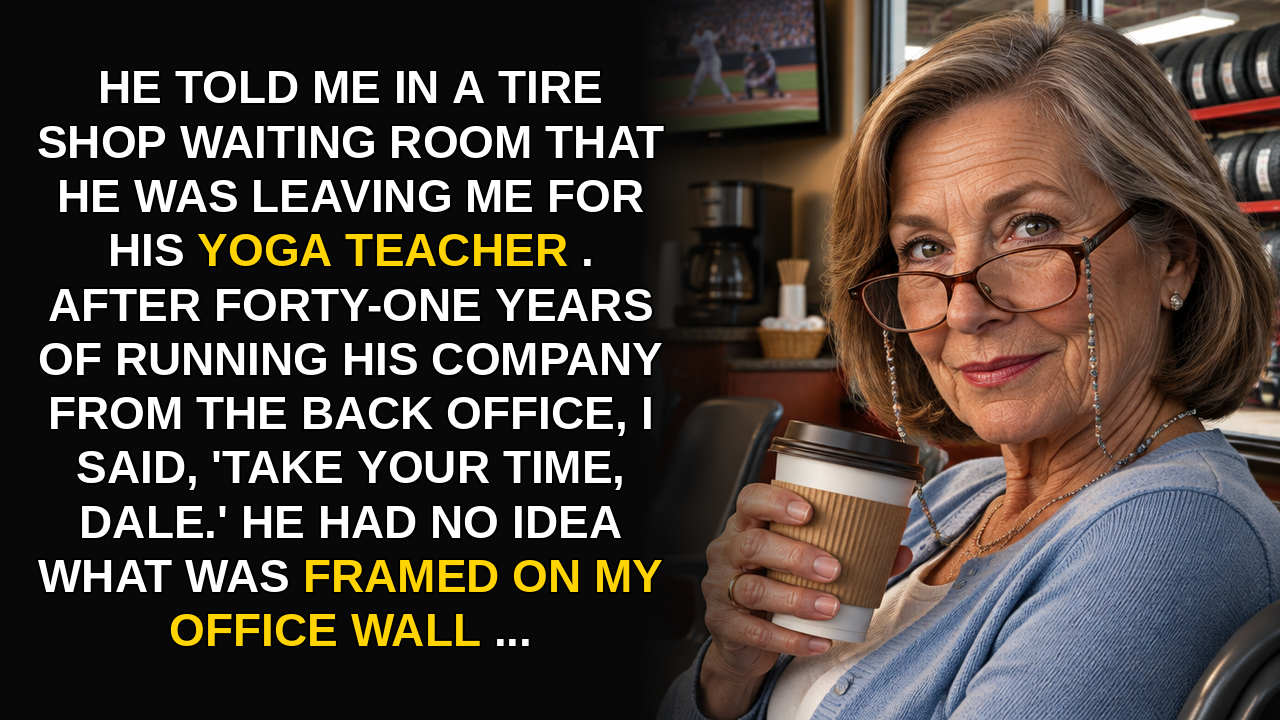
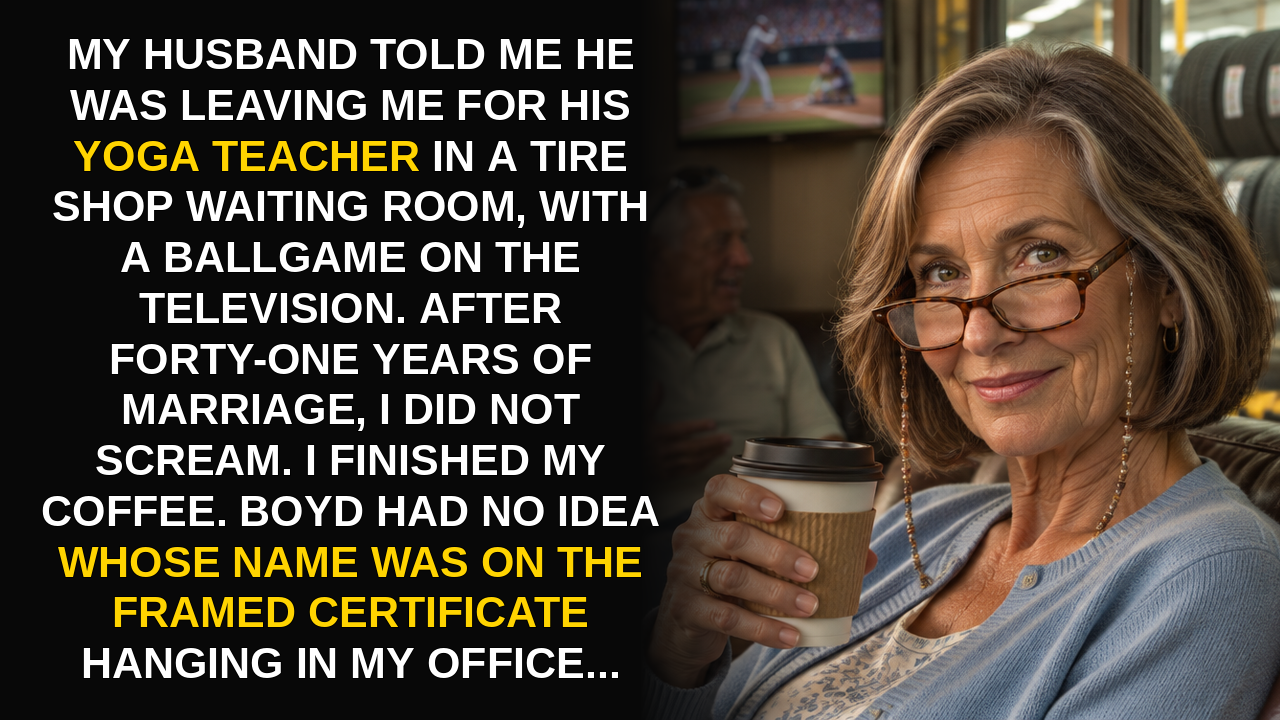
E009: editor fixes applied, covers A/B redone for renamed characters
Claude-Session: https://claude.ai/code/session_01S1DHjVaCYABTMSLcvCpbQq

diff --git a/episodes/E009-yoga-teacher-license/bible.md b/episodes/E009-yoga-teacher-license/bible.md
@@ -1,43 +1,55 @@
 # E009 — Story bible
-Narrator: Marilyn "Mimi" Tolliver, 65, first person, past tense, telling it the following spring from her own back porch. Sharp, dry, Gulf Coast Southern humor (never cruel, never whiny); the kind of woman who answers the phone on the second ring, keeps every receipt, and says "bless his heart" with a straight face. Form A (classic payback), humor, but built on *competence*, not on a hidden deed. No lawyer reveal at the end, no party reading. The turn happens in a tire-shop waiting room (open), a licensing-office counter (plan), a conference room (payback) and customers' porches (new life).
+Narrator: Marilyn "Mimi" Lanier, 65, first person, past tense, telling it the following spring from her own back porch. Sharp, dry, Gulf Coast Southern humor (never cruel, never whiny); the kind of woman who answers the phone on the second ring, keeps every receipt, and says "bless his heart" with a straight face. Form A (classic payback), humor, but built on *competence*, not on a hidden deed. No lawyer reveal at the end, no party reading. The turn happens in a tire-shop waiting room (open), a licensing-office counter (plan), a conference room (payback) and customers' porches (new life).
 
 ## Characters (8 named, different initials)
-**Marilyn "Mimi" Tolliver (née Gaudet)** — narrator, 65. Born in Bayou La Batre, Alabama; office manager of Tolliver Blue Water Pools for thirty-seven years (since 1988), bookkeeper, dispatcher, complaint desk, the person every customer calls. At fifty-two (spring 2013) she passed the state exam and became the company's licensed *qualifying agent* (an inspector had found the old license holder, Dale's retired partner Gene, no longer valid, and Dale could not or would not sit the test: "I don't test well, Mimi, you do it."). Small, neat, reading glasses on a beaded chain, a Buick LeSabre named "Gladys," a box fan in the back office, a coffee mug that says World's Okayest Bookkeeper (gift from the crew). Married forty-one years; one grown daughter in Denver (unnamed; appears only in one short phone call; calls her "Mama"). Salary: thirty-eight thousand a year ("Dale called it 'family compensation'"). Own savings: a credit-union account she funded herself, forty-four thousand dollars, and her own small IRA; the house (paid off, 1996) is in both names.
-**Dale Tolliver** — husband, 68. Founder (1988) of Tolliver Blue Water Pools in Dauphin Landing, Alabama (fictional town on Mobile Bay). Big laugh, white teeth, tan, sunglasses on his head, golf shirts with the company logo. A genuine salesman: customers love him; he has never read a permit. Vain, sure "the girl in the back" is furniture; says "Mimi, honey, it's just paperwork." Not violent; his sin is contempt and carelessness. Has never taken the licensing exam. Drives a white Ram truck with his face on the door.
-**Skye Calloway** — yoga teacher, 39, runs Still Water Studio in a converted bank building ("the vault is the quiet room"). Shallow but not evil; says "I hold space for that." Told Dale he "has so much unlived life." Realizes, over the weeks, what the company actually is and that Dale is not a rich founder but a man with a cash-flow problem. Leaves him in January.
-**Tripp Haverty** — 34, "growth consultant" from Gulf Aqua Partners, a Houston-based group that buys and rolls up pool companies. Dale's partner-in-waiting: they are buying sixty percent of Tolliver Blue Water for one point four million dollars, closing Friday, October third, after "paperwork" on Tuesday, September thirtieth (the license renewal date). Sleek, polite, reads spreadsheets not people; he does his homework on the numbers but never asks who the qualifier is — he assumes it is Dale. Not a cartoon: when he sees the truth, he leaves politely.
-**Ray Beaumont** — 59, crew chief, with the company since 1991, big, quiet, soft-voiced, fixes pumps like a surgeon, calls Mimi "Miss Mimi." Has kept every customer's pump history in his head. Wears a cap from the Mobile BayBears. Loyal to the work, not to Dale.
-**Odessa Whitfield** — 81, retired school principal, first customer of Mimi's era (pool built 1989), lives on Magnolia Point Road in a pink brick house with a pool she swims in every morning at six ("for my hips"). Sharp as a tack; calls Dale "that boy." Becomes the first customer of the new company.
+**Marilyn "Mimi" Lanier (née Gaudet)** — narrator, 65. Born in Bayou La Batre, Alabama; office manager of Lanier Blue Water Pools for thirty-seven years (since 1988), bookkeeper, dispatcher, complaint desk, the person every customer calls. At fifty-two (spring 2013) she passed the state exam and became the company's licensed *qualifying agent* (an inspector had found the old license holder, Boyd's retired partner Gene, no longer valid, and Boyd could not or would not sit the test: "I don't test well, Mimi, you do it."). Small, neat, reading glasses on a beaded chain, a Buick LeSabre named "Gladys," a box fan in the back office, a coffee mug that says World's Okay Bookkeeper (gift from the crew). Married forty-one years; one grown daughter in Denver (unnamed; appears only in one short phone call; calls her "Mama"). Salary: thirty-eight thousand a year ("Boyd called it 'family compensation'"). Own savings: a credit-union account she funded herself, forty-four thousand dollars, and her own small IRA; the house (paid off, 1996) is in both names.
+**Boyd Lanier** — husband, 68. Founder (1988) of Lanier Blue Water Pools in Dauphin Landing, Alabama (fictional town on Mobile Bay). Big laugh, white teeth, tan, sunglasses on his head, golf shirts with the company logo. A genuine salesman: customers love him; he has never read a permit. Vain, sure "the girl in the back" is furniture; says "Mimi, honey, it's just paperwork." Not violent; his sin is contempt and carelessness. Has never taken the licensing exam. Drives a white pickup truck with his face on the door.
+**Skye Calloway** — yoga teacher, 39, runs Still Water Studio in a converted bank building ("the vault is the quiet room"). Shallow but not evil; says "I hold space for that." Told Boyd he "has so much unlived life." Realizes, over the weeks, what the company actually is and that Boyd is not a rich founder but a man with a cash-flow problem. Leaves him in January.
+**Tripp Haverty** — 34, "growth consultant" from Gulf Aqua Partners, a Houston-based group that buys and rolls up pool companies. Boyd's partner-in-waiting: they are buying sixty percent of Lanier Blue Water for one point four million dollars, closing Friday, October third, after "paperwork" on Tuesday, September thirtieth (the license renewal date). Sleek, polite, reads spreadsheets not people; he does his homework on the numbers but never asks who the qualifier is — he assumes it is Boyd. Not a cartoon: when he sees the truth, he leaves politely.
+**Otis Beaumont** — 59, crew chief, with the company since 1991, big, quiet, soft-voiced, fixes pumps like a surgeon, calls Mimi "Miss Mimi." Has kept every customer's pump history in his head. Wears a cap from the Cypress Point Mudhens. Loyal to the work, not to Boyd.
+**Nettie Rhodes** — 81, retired school principal, first customer of Mimi's era (pool built 1989), lives on Magnolia Point Road in a pink brick house with a pool she swims in every morning at six ("for my hips"). Sharp as a tack; calls Boyd "that boy." Becomes the first customer of the new company.
 **Wanda Pickett** — 55, clerk at the State Licensing Board for Pool and Spa Contractors, Mobile regional office (fictional agency), second floor of a state office building. Plain-spoken, has a stack of laminated rules, a candy dish and a "no" that she delivers kindly. Explains the rules in general terms.
-**Priya Nair** — 41, family-law attorney with a small office above a bakery in Dauphin Landing. Calm, practical; advises Mimi only; no end-of-story document reveal. She asks the one question: "Did you ever sign a non-compete?"
+**Corinne Doucet** — 41, family-law attorney with a small office above a bakery in Dauphin Landing. Calm, practical; advises Mimi only; no end-of-story document reveal. She asks the one question: "Did you ever sign a non-compete?"
 
 ## Places, objects, money (all fictional, general-terms legal)
-- Tolliver Blue Water Pools: low cinderblock office with a blue awning and a fiberglass dolphin on the roof, Highway Ninety-Eight frontage, Dauphin Landing, Alabama. Three trucks, eleven employees, about three million one hundred thousand dollars in yearly revenue. Back office: Mimi's desk, a box fan, the framed license on the wall (a state certificate naming the qualifying agent: **Marilyn G. Tolliver**, number in the file; Dale walked past it twenty thousand times and never read it). Renewal due every September thirtieth, signed by the qualifying agent.
+- Lanier Blue Water Pools: low cinderblock office with a blue awning and a fiberglass dolphin on the roof, Highway Ninety-Eight frontage, Dauphin Landing, Alabama. Three trucks, eleven employees, about three million one hundred thousand dollars in yearly revenue. Back office: Mimi's desk, a box fan, the framed license on the wall (a state certificate naming the qualifying agent: **Marilyn G. Lanier**, number in the file; Boyd walked past it twenty thousand times and never read it). Renewal due every September thirtieth, signed by the qualifying agent.
 - The rule (in general terms, from Wanda): a pool contractor company must have a qualifying agent on file, a licensed person who passed the exam and answers for the company's work. If the qualifier resigns in writing, the company can keep finishing existing jobs for a grace period of sixty days, but cannot sign new contracts or pull new permits until it names a new qualifier who passes the exam; the exam is given only a few times a year (next sitting: Tuesday, November eighteenth, in Montgomery). A qualifier may serve only one company at a time. A resigning qualifier may qualify a new company of her own right after. There is no non-compete in Mimi's file or hers.
-- The buyer's lender requires the license to be in good standing with a named qualifier on closing day. Tripp assumes Dale holds it.
-- Dale's plan: sell sixty percent to Gulf Aqua for one point four million dollars, take Skye on a "reset" trip, keep a title ("Founder and Chairman"), and make Mimi sign the annual renewal "like always" on Tuesday, September thirtieth, in front of the buyers, so no one notices she holds it. He tells Tripp on a phone call Mimi overhears: "She's a clerk, Tripp. She'll sign anything I put in front of her. Forty-one years, she's never once read the fine print."
-- Dale's three waves: (1) Monday after the tire shop: Tripp arrives, moves into Mimi's office, and Mimi is "reassigned" to the supply room and told to hand over the books; (2) a settlement offer: sixty thousand dollars and the Buick, the house to be sold; plus he takes her off the company health insurance "for the transition"; (3) at the Friday crew meeting he announces "discrepancies in the books" to the crew, implying Mimi has been skimming (a petty-cash tin was short seventy-one dollars in 2019; he never asked about it; she had the receipt: Ray's boots).
-- Timeline: late August (Thursday, August twenty-eighth: the tire shop, Greer's Tire and Brake on Highway Ninety-Eight; ballgame on the waiting-room TV; a free-coffee machine; Dale needs front tires on the Ram). Monday, September first (Labor Day: Tripp comes anyway; note: Labor Day is a holiday so they work; make it Tuesday, September second); first week of September: wave one. Second week: the settlement offer, Priya. Third week: crew-meeting accusation (Friday, September nineteenth); the overheard call (Saturday, September twentieth, at the office). Monday, September twenty-second: Mimi drives to Wanda Pickett in Mobile. Tuesday, September thirtieth, nine in the morning: the conference room at the company, with Tripp, two men from Gulf Aqua (Mister Lund, Mister Okafor — not named characters; mention at most as "the two gentlemen from Houston"), Dale, Ray at the door, and the renewal form. Friday, October third: the closing that never happens. A tropical storm ("Tropical Storm Odalys", fictional) brushes the coast Sunday, September twenty-eighth, with wind and rain; pools overflow; the old customers call Mimi's cell, not the office. She and Ray work two nights.
-- Aftermath: Gulf Aqua walks away Tuesday afternoon (the deal "paused pending license verification"; officially dead Thursday). Dale files an emergency application with the board; Wanda tells him the rules (kindly). He is allowed to finish existing jobs, cannot sign new ones. His exam is November eighteenth; he fails by four points (he reads the questions aloud, calls Mimi's name once in the parking lot). Nine of the eleven employees leave by November; eight follow Ray and Mimi. Skye leaves Dale in January ("the energy here is heavy") after learning there is no one to pay for the studio's new vault door. Dale sells the trucks and the customer list to a competitor in December for three hundred and ten thousand dollars (not a million point four), pays off the line of credit, and ends up with a small apartment. The settlement: Mimi keeps the house and her own accounts; they split the rest by plain arithmetic; she asks for nothing spectacular. She does not gloat. She does not rescue him either: when he comes to her porch in January and asks her to be the qualifier again "for old times' sake, forty percent," she says no, once, kindly.
-- New company: Gaudet Blue Water Service (Mimi's maiden name), a pelican (not a dolphin) on the truck door at Ray's insistence; first customer Odessa; first week sixty-one weekly service stops; by spring one hundred and four customers, five trucks' worth of work in two; Ray is partner at twenty percent; Mimi is again at a desk, with a box fan, but the sign says her name.
-- Final scene: April, her back porch, iced tea, Ray's pelican truck pulling in; a short plain line about being read at last ("somebody finally read the fine print — and it was me"? use own words); question to the listener: would you have signed or told him? and where they are listening from.
+- The buyer's lender requires the license to be in good standing with a named qualifier on closing day. Tripp assumes Boyd holds it.
+- Boyd's plan: sell sixty percent to Gulf Aqua for one point four million dollars, take Skye on a "reset" trip, keep a title ("Founder and Chairman"), and make Mimi sign the annual renewal "like always" on Tuesday, September thirtieth, in front of the buyers, so no one notices she holds it. He tells Tripp on a phone call Mimi overhears: "She's a clerk, Tripp. She'll sign anything I put in front of her. Forty-one years, she's never once read the fine print."
+- Boyd's three waves: (1) Monday after the tire shop: Tripp arrives, moves into Mimi's office, and Mimi is "reassigned" to the supply room and told to hand over the books; (2) a settlement offer: sixty thousand dollars and the Buick, the house to be sold; plus he takes her off the company health insurance "for the transition"; (3) at the Friday crew meeting he announces "discrepancies in the books" to the crew, implying Mimi has been skimming (a petty-cash tin was short seventy-one dollars in 2019; he never asked about it; she had the receipt: Otis's boots).
+- Timeline: late August (Thursday, August twenty-eighth: the tire shop, Greer's Tire and Brake on Highway Ninety-Eight; ballgame on the waiting-room TV; a free-coffee machine; Boyd needs front tires on the Ram). Monday, September first (Labor Day: Tripp comes anyway; note: Labor Day is a holiday so they work; make it Tuesday, September second); first week of September: wave one. Second week: the settlement offer, Corinne. Third week: crew-meeting accusation (Friday, September nineteenth); the overheard call (Saturday, September twentieth, at the office). Monday, September twenty-second: Mimi drives to Wanda Pickett in Mobile. Tuesday, September thirtieth, nine in the morning: the conference room at the company, with Tripp, two men from Gulf Aqua (Mister Lund, Mister Pell — not named characters; mention at most as "the two gentlemen from Houston"), Boyd, Otis at the door, and the renewal form. Friday, October third: the closing that never happens. A tropical storm ("Tropical Storm Odalys", fictional) brushes the coast Sunday, September twenty-eighth, with wind and rain; pools overflow; the old customers call Mimi's cell, not the office. She and Otis work two nights.
+- Aftermath: Gulf Aqua walks away Tuesday afternoon (the deal "paused pending license verification"; officially dead Thursday). Boyd files an emergency application with the board; Wanda tells him the rules (kindly). He is allowed to finish existing jobs, cannot sign new ones. His exam is November eighteenth; he fails by four points (he reads the questions aloud, calls Mimi's name once in the parking lot). Nine of the eleven employees leave by November; eight follow Otis and Mimi. Skye leaves Boyd in January ("the energy here is heavy") after learning there is no one to pay for the studio's new vault door. Boyd sells the trucks and the customer list to a competitor in December for three hundred and ten thousand dollars (not a million point four), pays off the line of credit, and ends up with a small apartment. The settlement: Mimi keeps the house and her own accounts; they split the rest by plain arithmetic; she asks for nothing spectacular. She does not gloat. She does not rescue him either: when he comes to her porch in January and asks her to be the qualifier again "for old times' sake, forty percent," she says no, once, kindly.
+- New company: Gaudet Blue Water Service (Mimi's maiden name), a pelican (not a dolphin) on the truck door at Otis's insistence; first customer Nettie; first week sixty-one weekly service stops; by spring one hundred and four customers, five trucks' worth of work in two; Otis is partner at twenty percent; Mimi is again at a desk, with a box fan, but the sign says her name.
+- Final scene: April, her back porch, iced tea, Otis's pelican truck pulling in; a short plain line about being read at last ("somebody finally read the fine print — and it was me"? use own words); question to the listener: would you have signed or told him? and where they are listening from.
 
 ## Motifs
-- "Fine print": Dale's line, her line.
+- "Fine print": Boyd's line, her line.
 - Box fan and the framed license on the office wall; at the end the frame hangs on her porch wall, new certificate beside it.
-- Odessa's six a.m. swims and her "that boy" for Dale.
-- Ray's "Yes ma'am, Miss Mimi."
+- Nettie's six a.m. swims and her "that boy" for Boyd.
+- Otis's "Yes ma'am, Miss Mimi."
 - Mimi never shouts; her weapons are punctuality, receipts, a very polite voice, and "Bless his heart."
 - Avoid names/towns: Maple Grove, Larkspur, Fieldstone. Business, agency and town names are fictional.
 
 ## Added while writing the script (details the chapters now rely on)
-- Gene Pruitt: Dale's retired partner, old license holder, retired to a fishing camp on the Tensaw River (ch2; unnamed in the original bible).
-- Mimi's Medicare supplement and prescription coverage rode on the company health plan; Dale's cut-off letter ends it with the month (ch3).
-- Places: Dockside Diner (the napkin offer, Thursday, September eleventh), Bay Street Market (grocery where Skye approaches Mimi), the bakery under Priya's office is on Bay Street, Pelican Bluff subdivision (Dale in the rented golf cart), Mobile BayBears cap stays Ray's.
-- Dale's offer: written on a napkin first, then a typed letter from his lawyer on Monday (ch3).
-- Ray is six feet four inches; kept the 2019 receipt (seventy-one dollars, steel-toe boots, signed by Dale) in his wallet (ch4).
+- Gene Arceneaux: Boyd's retired partner, old license holder, retired to a fishing camp on the Tensaw River (ch2; unnamed in the original bible).
+- Mimi's Medicare supplement and prescription coverage rode on the company health plan; Boyd's cut-off letter ends it with the month (ch3).
+- Places: Dockside Diner (the napkin offer, Thursday, September eleventh), Bay Street Market (grocery where Skye approaches Mimi), the bakery under Corinne's office is on Bay Street, Pelican Bluff subdivision (Boyd in the rented golf cart), Cypress Point Mudhens cap stays Otis's.
+- Boyd's offer: written on a napkin first, then a typed letter from his lawyer on Monday (ch3).
+- Otis is six feet four inches; kept the 2019 receipt (seventy-one dollars, steel-toe boots, signed by Boyd) in his wallet (ch4).
 - Wanda Pickett has worked the counter nineteen years; she also helps proctor the Montgomery exam sitting and reports the November eighteenth result to Mimi (ch8).
-- Resignation mechanics in ch7: signed at nine-oh-four; Mimi photographs the page and texts it to Priya, who files it through the board's system and replies "Filed." Ray hands Mimi a copy-room box with the mug, the box fan and the framed certificate.
+- Resignation mechanics in ch7: signed at nine-oh-four; Mimi photographs the page and texts it to Corinne, who files it through the board's system and replies "Filed." Otis hands Mimi a copy-room box with the mug, the box fan and the framed certificate.
 - The two Houston gentlemen stay unnamed (older and younger). Tripp sends Mimi a short apology note after the deal is declared dead on Thursday, October second.
-- Employee count after: of eleven on the payroll, nine left by Thanksgiving (Ray first, one to Pensacola, seven more followed Ray and Mimi, eight with Ray). Mimi's daughter flies in December ("bring a hat" callback).
-- Gaudet Blue Water Service office is "a small office by the marina"; Odessa pays the first check in her bathrobe.
+- Employee count after: of eleven on the payroll, nine left by Thanksgiving (Otis first, one to Pensacola, seven more followed Otis and Mimi, eight with Otis). Mimi's daughter flies in December ("bring a hat" callback).
+- Gaudet Blue Water Service office is "a small office by the marina"; Nettie pays the first check in her bathrobe.
+
+## Revisions after editor review (supersede anything above that conflicts)
+- Names changed to avoid repeats from E001-E008: Dale -> Boyd Lanier; Tolliver -> Lanier (company: Lanier Blue Water Pools; Mimi is Marilyn G. Lanier); Ray -> Otis Beaumont; Odessa Whitfield -> Nettie Rhodes; Priya Nair -> Corinne Doucet; Gene Pruitt -> Gene Arceneaux; Mister Okafor (unnamed in text) -> Mister Pell. Hollis, Tolliver, Okafor are used in earlier episodes and must not return.
+- Fictional minor-league team: Cypress Point Mudhens (Otis's cap). Mug: World's Okay Bookkeeper. Boyd drives a white pickup (no brand). Candy in the exam story: chocolate peanuts.
+- Mimi always knew the license was in her name (she sat the exam in 2013 and hung the certificate herself). What she learns in ch03 is that a license belongs to the person and that her leaving paralyzes the company. In ch03 Corinne also texts "Do not resign yet. Ask the board who may resign, and effective when."
+- Boyd's napkin: sixty thousand dollars and the Buick; the house is to be sold with the money going to Boyd; nothing else to be divided.
+- Health coverage: Corinne writes to the plan; Mimi never misses a prescription (resolved in ch08).
+- Boyd wanted Mimi frightened and grateful so she would sign without reading (ch04). Tripp did ask Boyd and took his word; the lender checklist said only "active" (ch07).
+- Why September thirtieth at nine-oh-four with the buyers present (ch07): earlier, Boyd could lie to Houston or move the closing; later, the buyers learn the truth after their money has gone.
+- Boyd in ch07 threatens his attorney; Mimi: nobody can make a woman keep a job, not even a husband. Mimi writes the time at the top "for the board".
+- ch08: the lender pulled its commitment (deal dead October second); Boyd's January request is a job as salesman, "the face of Gaudet Blue Water"; Mimi says no. Wanda never discusses cases with Mimi: Boyd's filing and the exam story reach Mimi by customers' relatives (a proctor married to a customer). Of the ten employees besides Mimi, nine left by Thanksgiving. Two trucks do the work three used to. Customer list sold for a list of names whose owners had already chosen. Final question: would you have told him a week early, or waited for Tuesday?
+- Storm timeline (ch06): storm Sunday the twenty-eighth; first night of work Sunday, Nettie at three Monday morning; second night of work Monday, tailgate talk about two on Tuesday morning in thin drizzle.

diff --git a/episodes/E009-yoga-teacher-license/outline.md b/episodes/E009-yoga-teacher-license/outline.md
@@ -2,11 +2,11 @@
 
 Form A, humor, Southern. Skeleton: cold open → who she is → three waves → midpoint (the overheard call) → quiet plan → the conference room → new life.
 
-1. **The Waiting Room** — Cold open at Greer's Tire and Brake, Thursday, August: Dale announces in the plastic chairs, ballgame on the TV, coffee machine, that he is leaving for Skye, his yoga teacher ("I'm not growing here"). Mimi's calm; one-line promise: "By Halloween he would have lost his license to work, his buyer, and most of his crew, and I want to be fair to him: he had it coming for forty years." Then who she is: the office, the dolphin on the roof, the box fan, thirty-seven years, Dale's habit of saying "it's just paperwork." Dale adds: "Tripp's coming Tuesday to look at the books. Just so you're not blindsided." Ends: back at the office alone she looks at the framed certificate on the wall as if for the first time.
-2. **Fine Print** — The 2013 exam story (a testing center in Montgomery, twenty-eight-year-olds, a bag of peanut M&Ms). Tuesday: Tripp takes her office; she is "reassigned" to the supply room; she hands over every book with such helpful honesty that Tripp is startled. Crew reactions; Ray. Humor: the box fan moved to the supply room. Ends: Odessa Whitfield calls the office and, hearing a stranger, says: "Put Mimi on. And tell that boy I'll wait."
-3. **Sixty Thousand and the Buick** — Dale's settlement offer on a restaurant napkin-turned-letter (via his lawyer), health insurance dropped; Priya Nair's office above the bakery; Priya asks "What do you hold, on paper, that can walk out the door with you?" and "Did you sign a non-compete?" (no); Mimi realizes what the certificate means. Skye meets her at the grocery store, offers "space." Ends: Mimi goes home, takes the framed certificate off the office wall in her mind, and decides not to do anything yet: "I decided to be the most helpful woman in Alabama."
-4. **Discrepancies** — Friday crew meeting: Dale hints the books show "discrepancies"; the seventy-one-dollar petty-cash tin; Ray stands up with the receipt (his boots). Dale laughs it off. Saturday at the office alone, Mimi overhears Dale's phone call to Tripp: "She's a clerk... she'll sign anything... forty-one years, she's never read the fine print... Tuesday the thirtieth, renewal, she signs, Friday we close." Midpoint decision, calm. Ends: she writes one sentence on a sticky note and puts it in her purse: "Tuesday, nine a.m."
-5. **Wanda Pickett Has a Laminated Card** — Monday: Mobile, state office building; Wanda explains the rules in general terms with kindness and a candy dish: resignation in writing, sixty-day grace, no new permits, the November exam, one company at a time. Mimi's quiet plan: finish and protect the fourteen open jobs, tell Ray privately, line up her own paperwork (Priya drafts her resignation letter; effective at the moment she signs); she will not strand a single customer. Humor: Wanda: "Honey, I have seen men cry at that counter. Never the person who read the manual." Ends: Wanda hands her the form; "Be sure of your date."
-6. **Tropical Storm Odalys** — The week before: the storm brushes the coast; pools overflow; customers call Mimi's cell, not the office; she and Ray work two nights; Odessa on her porch in a rain poncho says she'll follow Mimi anywhere; Skye shows at the office in a white linen outfit, bewildered by the phones; Tripp is overwhelmed by calls; Dale in a golf cart. Mimi is the only one who knows where the valves are. Ray: "Miss Mimi, whatever you're fixing to do, I'm in." Ends: Monday night, Dale leaves a voicemail: "Tuesday, nine sharp, bring a pen, honey."
-7. **Bring a Pen** — Tuesday, nine a.m., the conference room: two gentlemen from Houston, Tripp, Dale in his best golf shirt, Ray at the door. Dale slides the renewal form over: "Just sign, Mimi, like always." She says she'll be delighted to, politely, and asks the gentlemen if they'd like to know what she's signing. A calm explanation, no raised voice; Tripp turns pale; the Houston men ask who the qualifier is; Dale says "technicality"; she signs a different paper: the resignation, effective at nine-oh-four. Dale: "You're doing this to hurt me." Mimi: "No, Dale. I'm leaving you exactly what you always said I was: a clerk. Clerks can't pull permits." Houston leaves. Ray hands Mimi the cardboard box (mug, the box fan). Ends: in the parking lot Dale says "Fine, I'll take the test," and Mimi says: "It's November eighteenth. Bring a pen."
-8. **Gaudet Blue Water** — What happened next, on ordinary mornings: Wanda's kind "no" to Dale; the deal officially dead; he fails the exam by four points; crews leave; Skye in January; his customer list sold for three hundred and ten thousand; the house stays hers by plain arithmetic. Dale on her porch in January asks her to requalify for forty percent; she declines once, kindly. The new company: Odessa's pool first, the pelican on the truck, Ray as partner, one hundred and four customers by April, the framed certificate on the porch wall. Last lines + question to the listener (would you have signed, or told him?) and where they are listening from.
+1. **The Waiting Room** — Cold open at Greer's Tire and Brake, Thursday, August: Boyd announces in the plastic chairs, ballgame on the TV, coffee machine, that he is leaving for Skye, his yoga teacher ("I'm not growing here"). Mimi's calm; one-line promise: "By Halloween he would have lost his buyer, his crew and his right to sign a single new contract, and I want to be fair to him: he had it coming for forty-one years." Then who she is: the office, the dolphin on the roof, the box fan, thirty-seven years, Boyd's habit of saying "it's just paperwork." Boyd adds: "Tripp's coming Tuesday to look at the books. Just so you're not blindsided." Ends: back at the office alone she looks at the framed certificate on the wall as if for the first time.
+2. **Fine Print** — The 2013 exam story (a testing center in Montgomery, twenty-eight-year-olds, a bag of peanut M&Ms). Tuesday: Tripp takes her office; she is "reassigned" to the supply room; she hands over every book with such helpful honesty that Tripp is startled. Crew reactions; Otis. Humor: the box fan moved to the supply room. Ends: Nettie Rhodes calls the office and, hearing a stranger, says: "Put Mimi on. And tell that boy I'll wait."
+3. **Sixty Thousand and the Buick** — Boyd's settlement offer on a restaurant napkin-turned-letter (via his lawyer), health insurance dropped; Corinne Doucet's office above the bakery; Corinne asks "What do you hold, on paper, that can walk out the door with you?" and "Did you sign a non-compete?" (no); Mimi realizes what the certificate means. Skye meets her at the grocery store, offers "space." Ends: Mimi goes home, takes the framed certificate off the office wall in her mind, and decides not to do anything yet: "I decided to be the most helpful woman in Alabama."
+4. **Discrepancies** — Friday crew meeting: Boyd hints the books show "discrepancies"; the seventy-one-dollar petty-cash tin; Otis stands up with the receipt (his boots). Boyd laughs it off. Saturday at the office alone, Mimi overhears Boyd's phone call to Tripp: "She's a clerk... she'll sign anything... forty-one years, she's never read the fine print... Tuesday the thirtieth, renewal, she signs, Friday we close." Midpoint decision, calm. Ends: she writes one sentence on a sticky note and puts it in her purse: "Tuesday, nine a.m."
+5. **Wanda Pickett Has a Laminated Card** — Monday: Mobile, state office building; Wanda explains the rules in general terms with kindness and a candy dish: resignation in writing, sixty-day grace, no new permits, the November exam, one company at a time. Mimi's quiet plan: finish and protect the fourteen open jobs, tell Otis privately, line up her own paperwork (Corinne drafts her resignation letter; effective at the moment she signs); she will not strand a single customer. Humor: Wanda: "Honey, I have seen men cry at that counter. Never the person who read the manual." Ends: Wanda hands her the form; "Be sure of your date."
+6. **Tropical Storm Odalys** — The week before: the storm brushes the coast; pools overflow; customers call Mimi's cell, not the office; she and Otis work two nights; Nettie on her porch in a rain poncho says she'll follow Mimi anywhere; Skye shows at the office in a white linen outfit, bewildered by the phones; Tripp is overwhelmed by calls; Boyd in a golf cart. Mimi is the only one who knows where the valves are. Otis: "Miss Mimi, whatever you're fixing to do, I'm in." Ends: Monday night, Boyd leaves a voicemail: "Tuesday, nine sharp, bring a pen, honey."
+7. **Bring a Pen** — Tuesday, nine a.m., the conference room: two gentlemen from Houston, Tripp, Boyd in his best golf shirt, Otis at the door. Boyd slides the renewal form over: "Just sign, Mimi, like always." She says she'll be delighted to, politely, and asks the gentlemen if they'd like to know what she's signing. A calm explanation, no raised voice; Tripp turns pale; the Houston men ask who the qualifier is; Boyd says "technicality"; she signs a different paper: the resignation, effective at nine-oh-four. Boyd: "You're doing this to hurt me." Mimi: "No, Boyd. I'm leaving you exactly what you always said I was: a clerk. Clerks can't pull permits." Houston leaves. Otis hands Mimi the cardboard box (mug, the box fan). Ends: in the parking lot Boyd says "Fine, I'll take the test," and Mimi says: "It's November eighteenth. Bring a pen."
+8. **Gaudet Blue Water** — What happened next, on ordinary mornings: Wanda's kind "no" to Boyd; the deal officially dead; he fails the exam by four points; crews leave; Skye in January; his customer list sold for three hundred and ten thousand; the house stays hers by plain arithmetic. Boyd on her porch in January asks her to requalify for forty percent; she declines once, kindly. The new company: Nettie's pool first, the pelican on the truck, Otis as partner, one hundred and four customers by April, the framed certificate on the porch wall. Last lines + question to the listener (would you have signed, or told him?) and where they are listening from.

diff --git a/episodes/E009-yoga-teacher-license/review.md b/episodes/E009-yoga-teacher-license/review.md
@@ -143,3 +143,27 @@
 **Оценка: 7,5 из 10.** Язык, юмор, дата-арифметика и характеры (Мими, Рэй, Ванда, Одесса, Трип) на уровне; уязвимости — логическая дыра с «не читала собственный сертификат» (она сама сдавала на него), невозможная просьба Дейла в финале, повторы имён из прошлых эпизодов и слабоватая кульминация.
 
 **Одно изменение, которое сильнее всего повысит удержание:** переписать ch01 (концовка) и ch03 (середина) так, чтобы героиня знала про лицензию с самого начала и осознанно, шаг за шагом проверяла, что произойдёт, если она её отдаст (она умная, а не «вдруг прозрела»), и усилить ch07 одним настоящим сопротивлением Дейла. Тогда зритель с первой главы ждёт конкретную дату («Tuesday, nine in the morning»), а в кульминации получает не формальную, а выигранную схватку.
+
+---
+
+## Применённые правки
+
+Все 13 обязательных пунктов выполнены; линт чистый (8 глав по 1163-1205 слов по счёту линтера, всего около 9535 слов, замечаний нет).
+
+1. Лицензия: Мими всегда знала. ch01 финал: «read it the way you read a will»; ch03: на вопрос о держателе лицензии она отвечает «Me» и слышит, как это звучит как актив; «Twelve years of dusting» заменено на «I had never asked what it was worth».
+2. ch08, финал: «I read every line of it for forty-one years. The one line I never read for what it was worth was my own.»
+3. ch08: Бойд просит работу продавца, «the face of the company», Мими отказывает.
+4. Переименованы по всем главам и bible/outline/idea: Dale -> Boyd, Tolliver -> Lanier (компания Lanier Blue Water Pools), Ray -> Otis, Odessa Whitfield -> Nettie Rhodes, Priya Nair -> Corinne Doucet, Gene Pruitt -> Gene Arceneaux, Okafor -> Pell. Hollis не использован (занят в E006).
+5. ch07: Трип: «I did ask... I took his word»; ch08: «asking twice».
+6. ch07: объяснение даты (раньше: Бойд успел бы солгать Хьюстону или перенести закрытие; позже: покупатели узнали бы после перевода денег).
+7. ch03: Корин пишет в страховой план, рецепты не пропадут; ch08: покрытие сохранено.
+8. ch01: «By Thanksgiving ... his buyer, his crew, and his right to sign a single new contract».
+9. ch08: «three used to».
+10. ch03: записка переписана как диктовка, указано, что деньги от дома идут Бойду.
+11. Mudhens вместо BayBears (Cypress Point Mudhens), pickup вместо Ram, chocolate peanuts вместо M and M's.
+12. ch04: «He wanted me frightened. A frightened woman is grateful to be kept on...».
+13. ch08: Ванда ничего не рассказывает Мими; история заявки и экзамена приходит через родственников клиентов; bible обновлён.
+
+Желательно сделано: A (ch03 заканчивается смс Корин; ch05 напряжение: Ванда упоминает звонок «polite young man» о скорости продления), C (ch02 добрый Бойд: бассейн 1989 и слёзы на 25-летии; ch07 выпад Бойда с угрозой адвоката), D (форма сложена так, что виден только низ; Трип проверял только «active»; «Nobody can make a woman keep a job»; лендер отозвал обязательство; список клиентов продан за «names whose owners had already chosen»), E (явные Sunday night, Monday night, Tuesday morning; девять минут), F частично (very убраны в нескольких местах, «like a man» разнообразлено, golf shirt, добавлено «bless his heart» в ch06), G (Мими пишет время сверху «for the board»), H («that boy» в ch02 заменено на имя), I (Okay Bookkeeper, chocolate peanuts), J (high school, forty-one, дубликат квитанции, счёт сотрудников, финальный вопрос).
+
+Не сделано: B (обещание в ch01 уже стоит сразу после «bless your heart», переставлять нечего); I-произношение (Gaudet, Dauphin, Tensaw и т.д.) требует проверки на озвучке; J-пересказ первой половины ch08 сценой не заменён из-за лимита слов; полная чистка «very» и «twenty thousand times» (осталось в ch01 один раз) сделана не везде.

diff --git a/episodes/E009-yoga-teacher-license/idea.md b/episodes/E009-yoga-teacher-license/idea.md
@@ -4,12 +4,12 @@
 
 Length: 60 min
 
-**Logline:** Marilyn "Mimi" Tolliver, 65, has spent forty years as the office manager (and, since fifty-two, the state-licensed qualifying contractor) of her husband Dale's Gulf Coast pool-and-patio company in Alabama. Dale tells her he's leaving for his yoga teacher in a tire-shop waiting room while a ball game plays on the TV. She does not scream. With dry Southern humor she takes him at his word: she'll gladly step aside, exactly as the paperwork allows.
+**Logline:** Marilyn "Mimi" Lanier, 65, has spent forty years as the office manager (and, since fifty-two, the state-licensed qualifying contractor) of her husband Boyd's Gulf Coast pool-and-patio company in Alabama. Boyd tells her he's leaving for his yoga teacher in a tire-shop waiting room while a ball game plays on the TV. She does not scream. With dry Southern humor she takes him at his word: she'll gladly step aside, exactly as the paperwork allows.
 
 **Variety plan (idea 11, rewritten per variety.md п.7):** form A, but the villain is a husband (not "the family"); heroine from the Deep South, sharp-tongued and funny (not shy); tone with humor. Because E008 already used "the house/property was already hers," the mechanism is NOT hidden ownership: the business is openly his (his name on the trucks), and what she holds is her *qualifier credential* + forty years of customers' and suppliers' trust + her own personal accounts. Nobody reads a document aloud at a party; no lawyer reveal at the end — the turn comes at a state licensing office counter and on customers' porches.
 
-**Villain:** Dale Tolliver, 68 — charming, vain, sure the "little woman in the back office" is furniture. Plus a smooth young business-partner-in-waiting, not a cartoon: the yoga teacher is shallow but not evil.
+**Villain:** Boyd Lanier, 68 — charming, vain, sure the "little woman in the back office" is furniture. Plus a smooth young business-partner-in-waiting, not a cartoon: the yoga teacher is shallow but not evil.
 
-**Mechanism:** the company's contractor license has to be held by a named qualifying person who passed the exam — Dale never passed it; Mimi did, quietly, at 52, to save the company after an inspection scare. When she resigns as qualifier, in writing, on the day the divorce papers arrive, the company cannot legally pull permits or sign new jobs. Meanwhile her long-time customers, crews and suppliers (who always called *her* when something went wrong) have choices.
+**Mechanism:** the company's contractor license has to be held by a named qualifying person who passed the exam — Boyd never passed it; Mimi did, quietly, at 52, to save the company after an inspection scare. When she resigns as qualifier, in writing, on the day the divorce papers arrive, the company cannot legally pull permits or sign new jobs. Meanwhile her long-time customers, crews and suppliers (who always called *her* when something went wrong) have choices.
 
-**Ending:** payback with grace — Dale begs (not for love, for the license); she declines; she opens a small one-woman outfit with the crew chief who always liked her; new life, a warm last scene. Not "revenge party": consequences land through ordinary Tuesday mornings.
+**Ending:** payback with grace — Boyd begs (not for love, for the license); she declines; she opens a small one-woman outfit with the crew chief who always liked her; new life, a warm last scene. Not "revenge party": consequences land through ordinary Tuesday mornings.

diff --git a/episodes/E009-yoga-teacher-license/cover/prompt.md b/episodes/E009-yoga-teacher-license/cover/prompt.md
@@ -1,6 +1,6 @@
-# E009 cover — Higgsfield (night shift)
-Model gpt_image_2_6, 4 images (~1 credit), no text on images. Source images in cover/flow/ (not in git).
-- img4: tire-shop waiting room, Mimi with coffee, Dale talking behind -> cover A
-- img1: back office with box fan and framed certificate, Dale lounging -> cover B
-- img2: conference room, Mimi with pen, stunned Dale and two suits -> cover C
-- img3: pool, pelican truck, framed certificate on table -> cover/background.png (video background)
+# E009 cover — Higgsfield (night shift; A and B regenerated after name changes, ~1.5 credits in total)
+Model gpt_image_2_6, no text on images. Source images in cover/flow/ (not in git).
+- imgA: tire-shop waiting room, Mimi with coffee, Boyd behind -> cover A
+- imgB: back office with box fan and framed certificate, Boyd lounging -> cover B
+- (original img2) conference room, Mimi with pen, stunned buyers -> cover C (text has no names to change)
+- (original img3) pool, pelican truck, framed certificate on table -> cover/background.png (video background)
